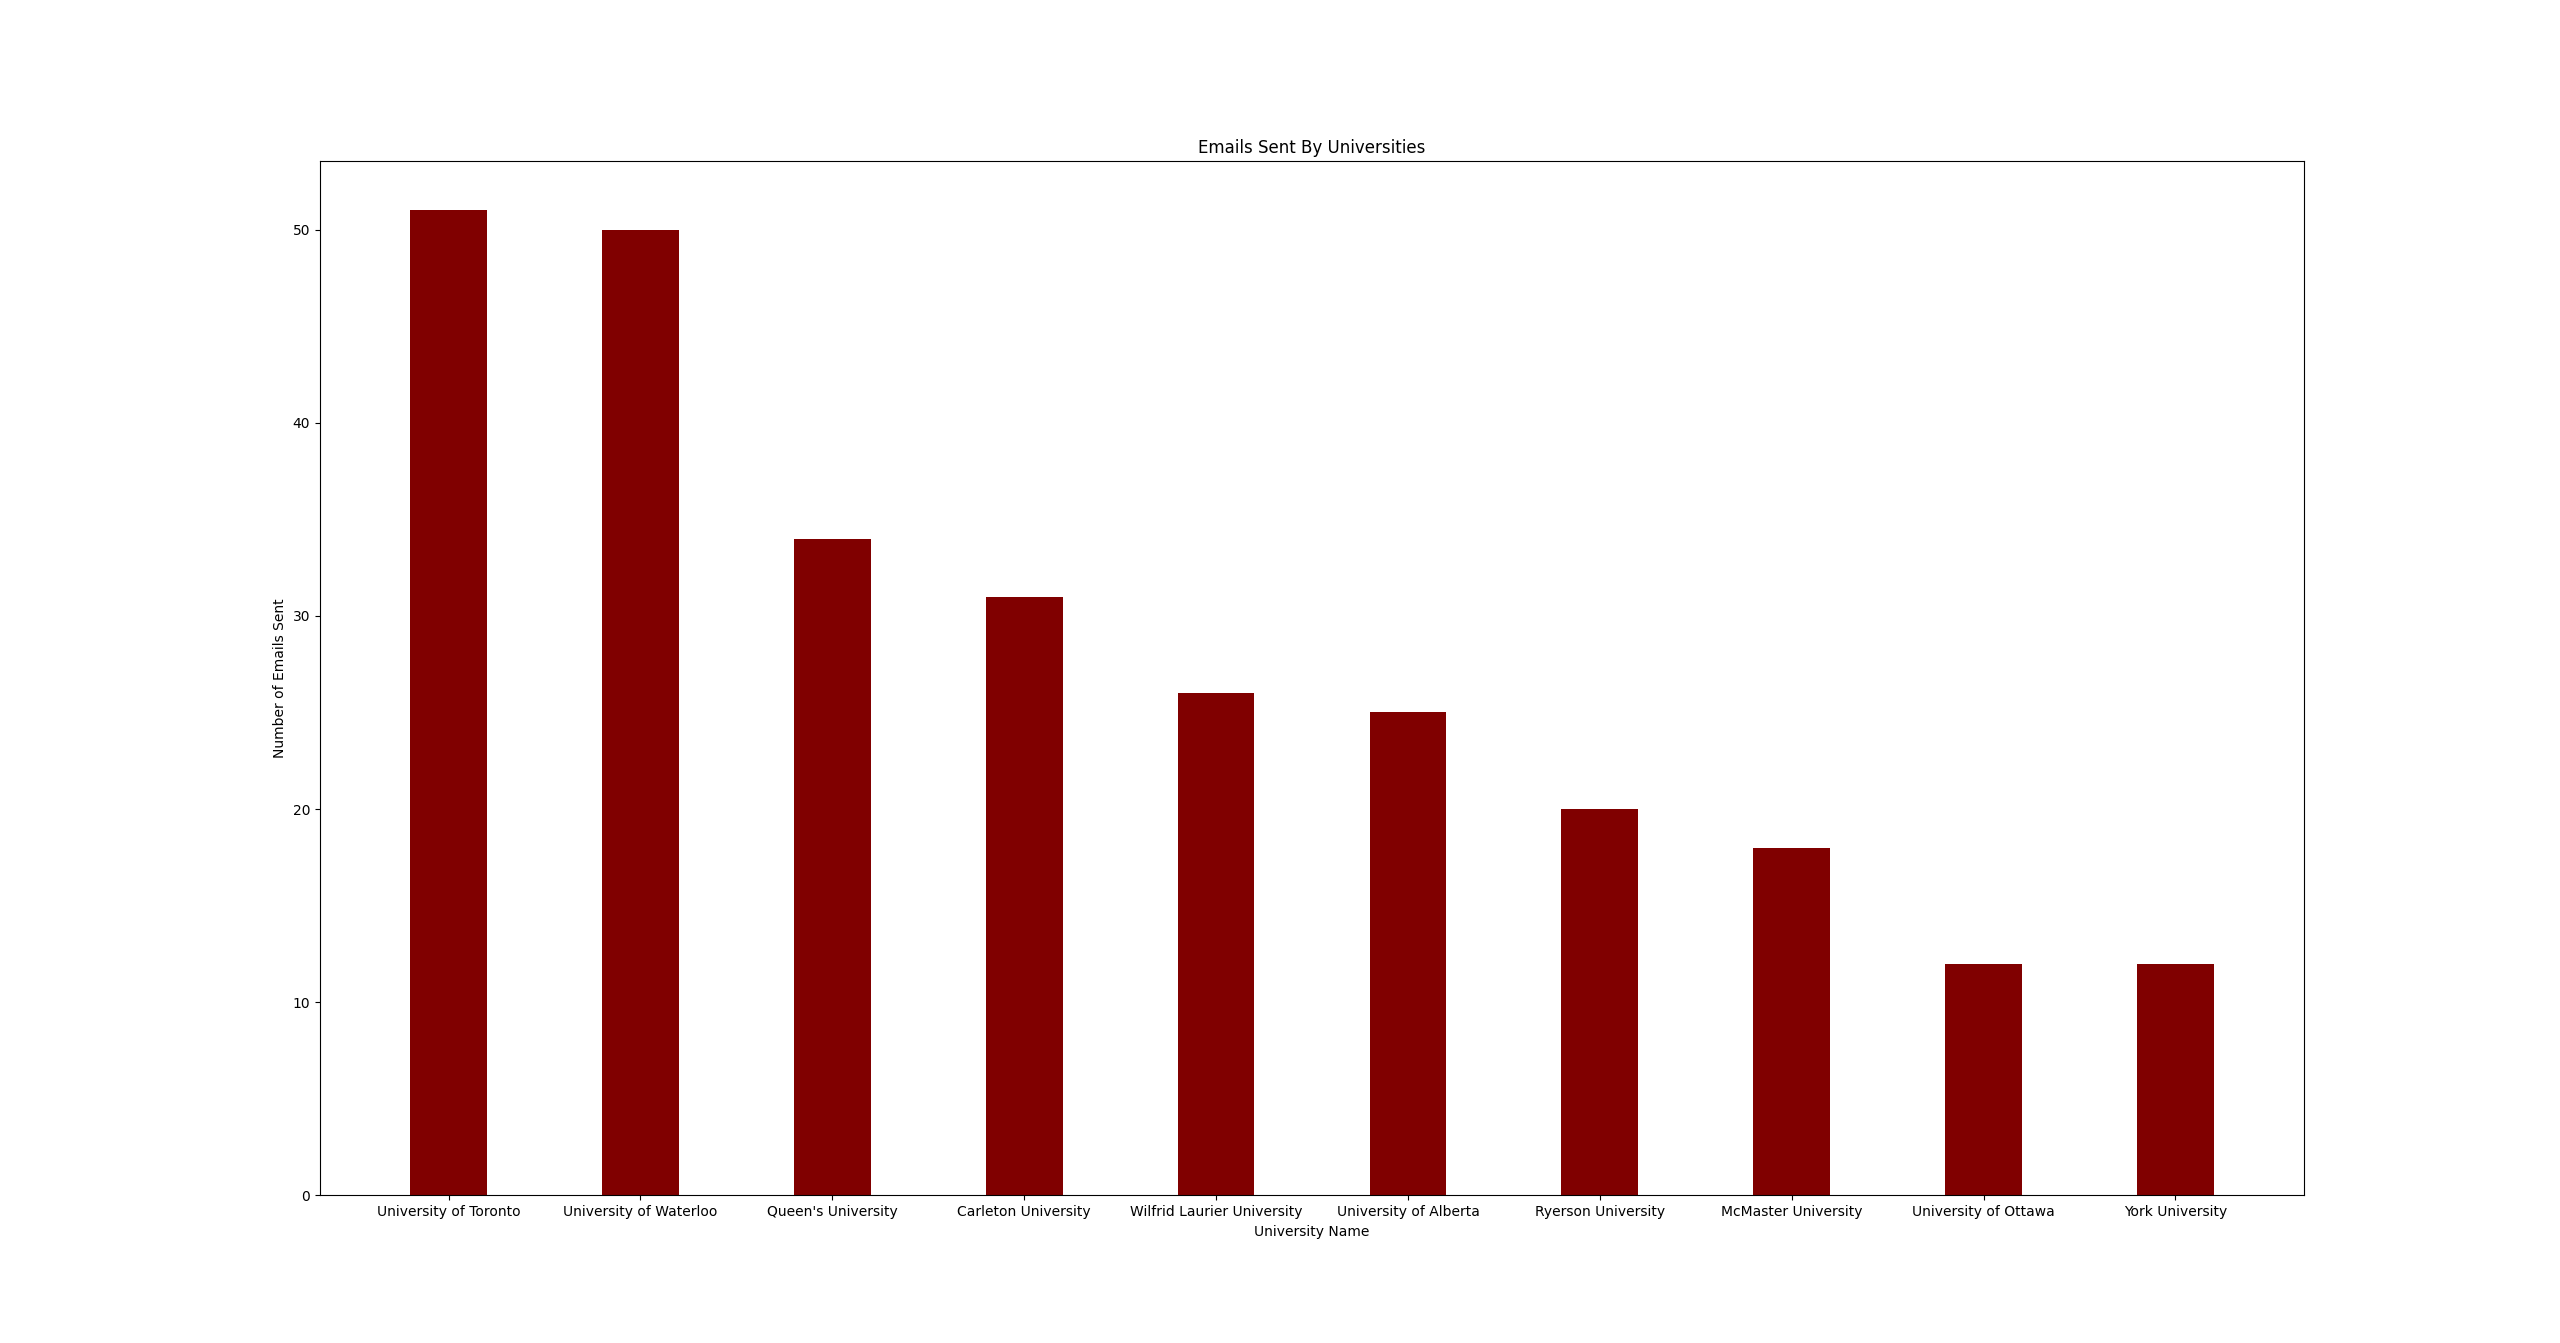
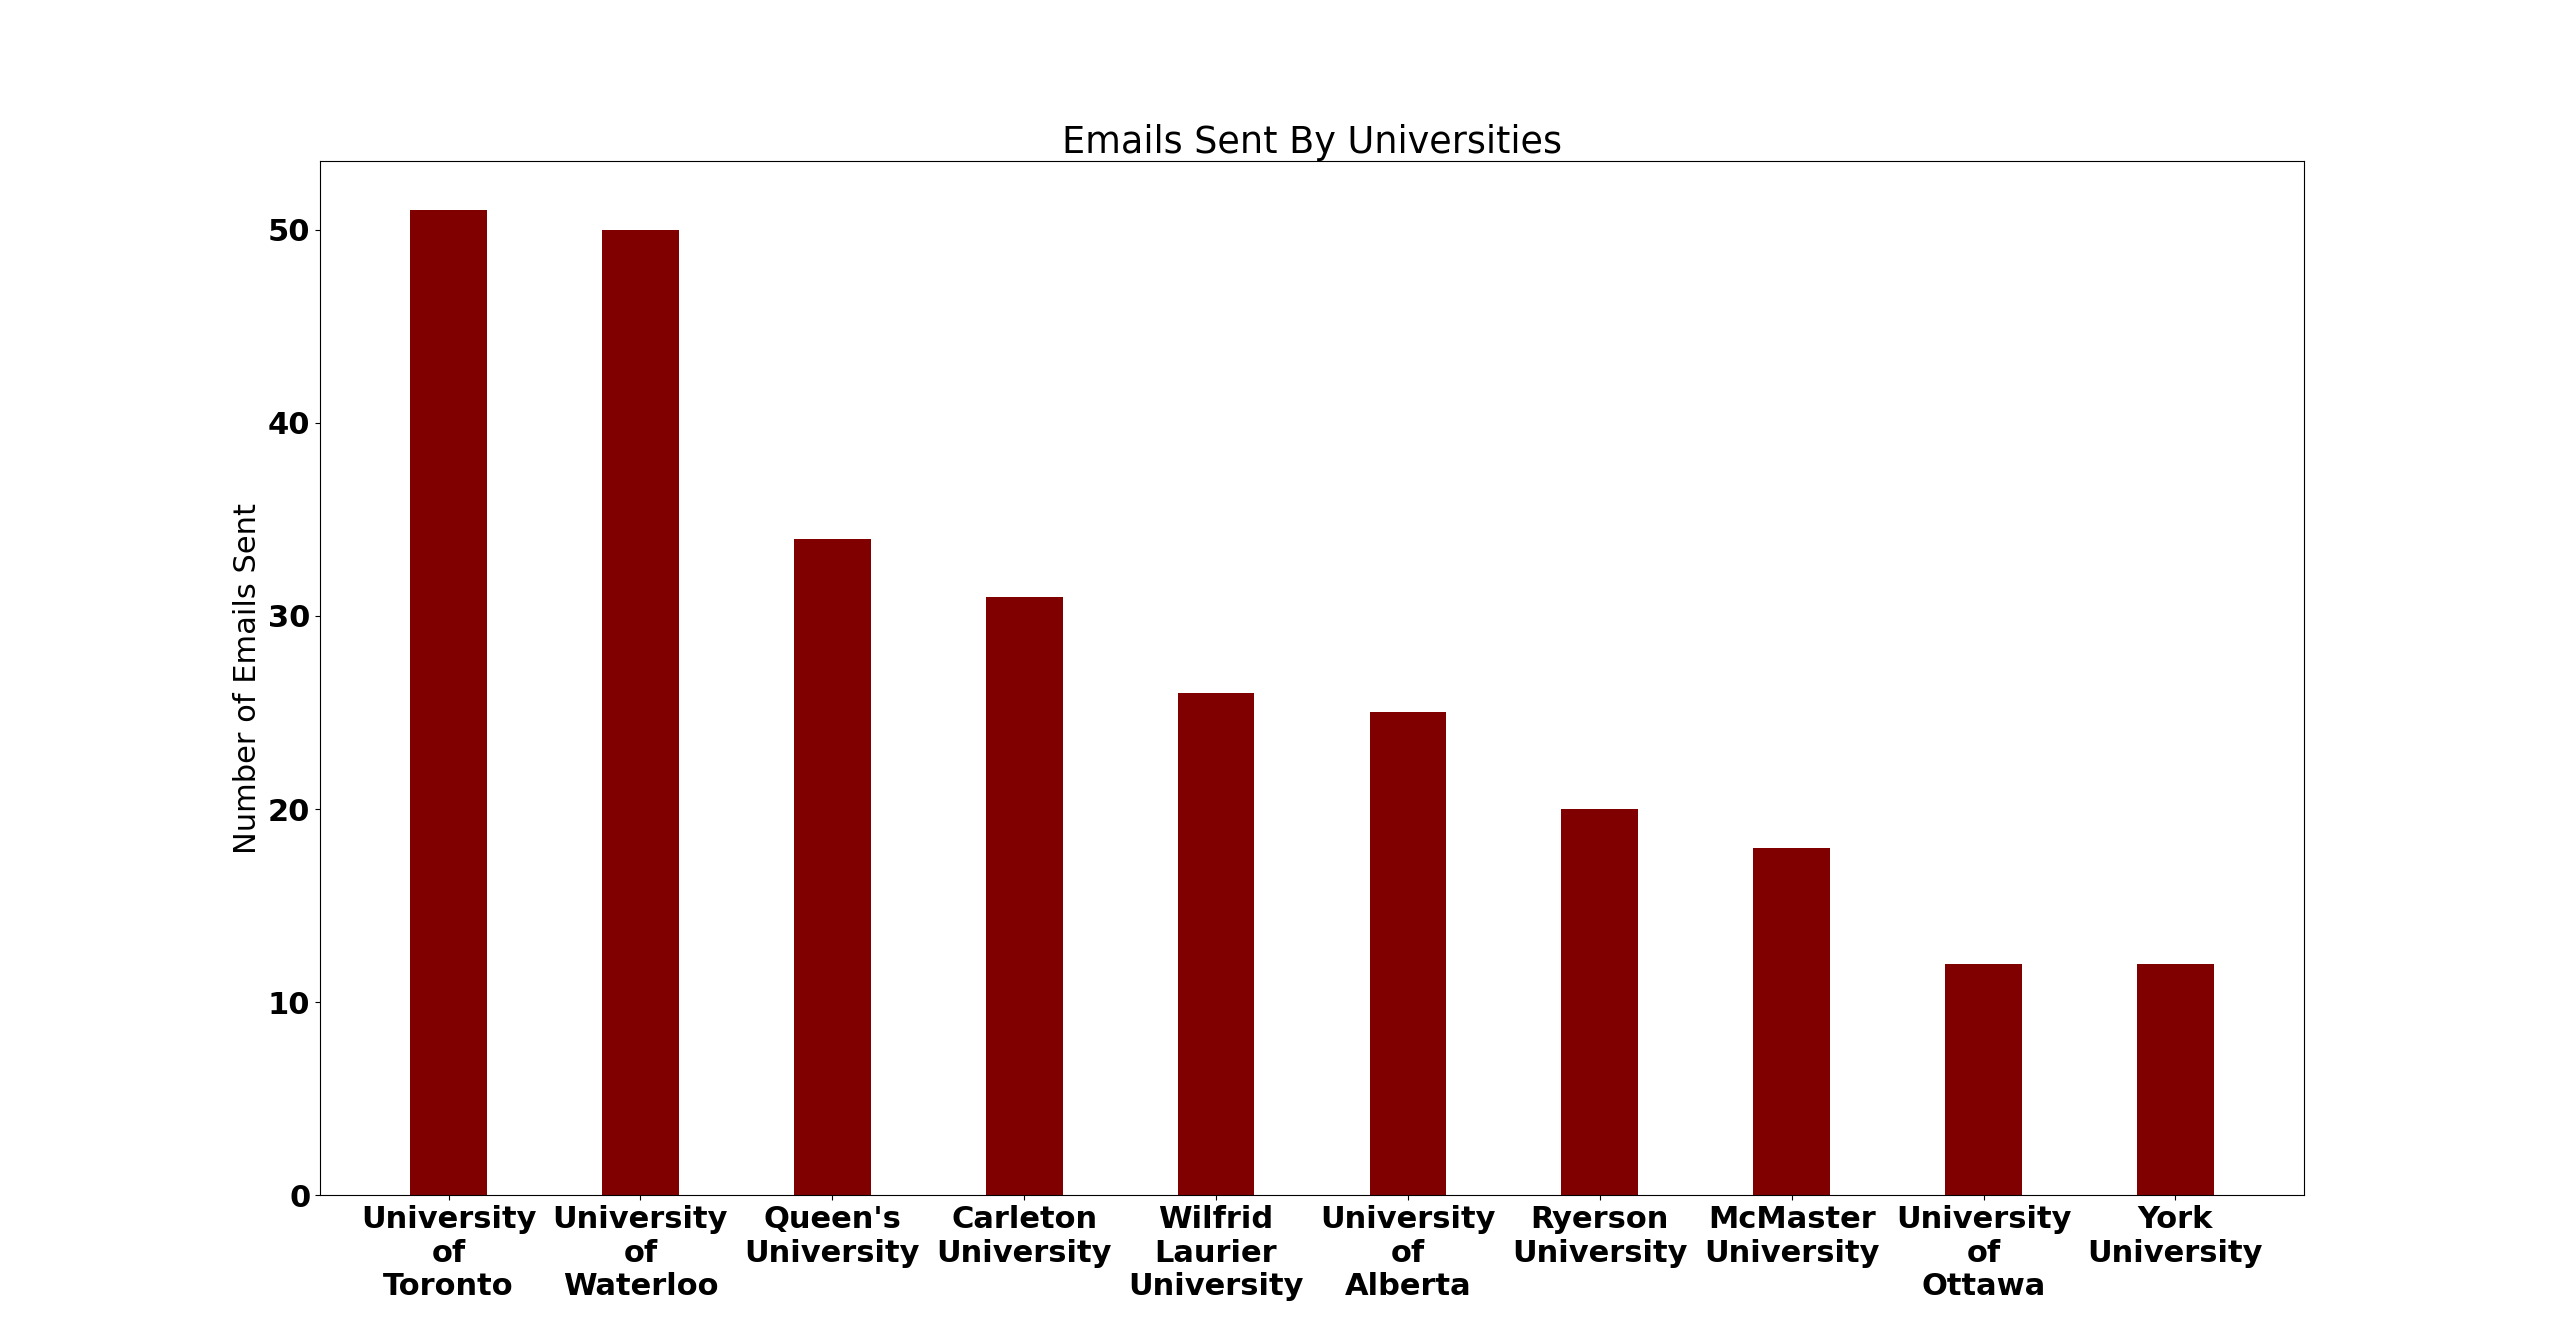
better font and text wrapping

diff --git a/src/VisualizingResults/Visualizer.py b/src/VisualizingResults/Visualizer.py
@@ -5,6 +5,11 @@ from src.EmailProcedures.utils import sort_dictionary_on_values
 import matplotlib.pyplot as plt
 from src.EmailProcedures.utils import group_uni_emails
 
+font = {'family' : 'normal',
+        'weight' : 'bold',
+        'size'   : 22}
+
+plt.rc('font', **font)
 class Visualizer():
 
     @staticmethod
@@ -24,7 +29,7 @@ class Visualizer():
         values = []
         for name in sorted:
             # if email_count[name] < 10: break
-            uni_names.append(name)
+            uni_names.append(name.replace(" ", "\n"))
             values.append(email_count[name])
 
         plt.figure(figsize=(10, 5))
@@ -32,7 +37,7 @@ class Visualizer():
         # creating the bar plot
         plt.bar(uni_names, values, color='maroon', width=0.4)
 
-        plt.xlabel("University Name")
+        # plt.xlabel("University Name")
         plt.ylabel("Number of Emails Sent")
         plt.title("Emails Sent By Universities")
         plt.show()
